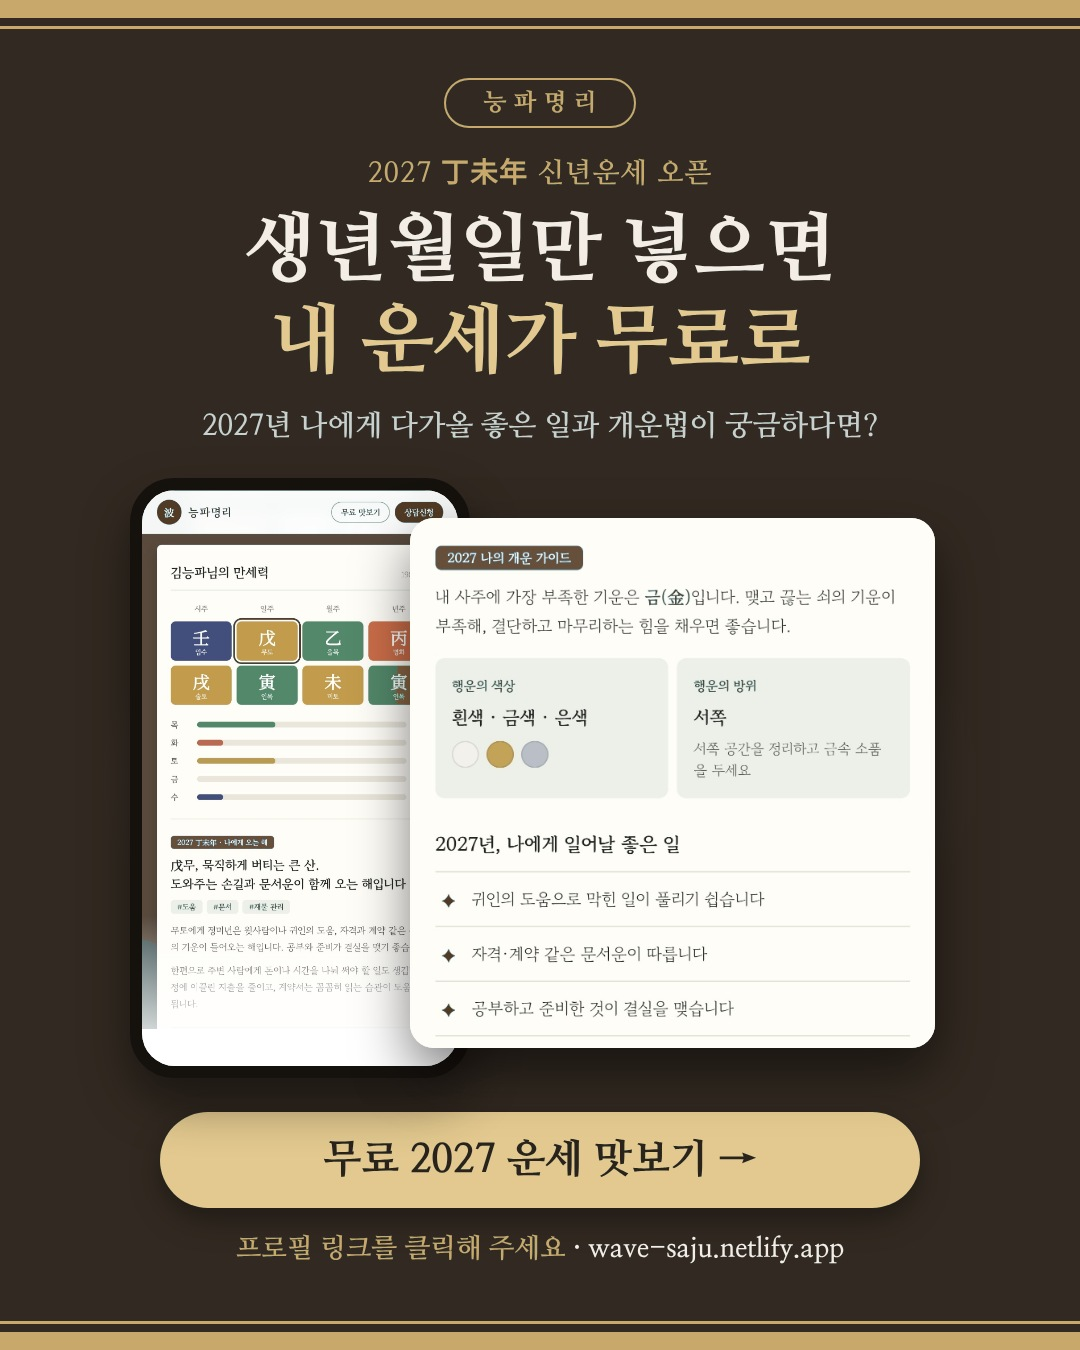
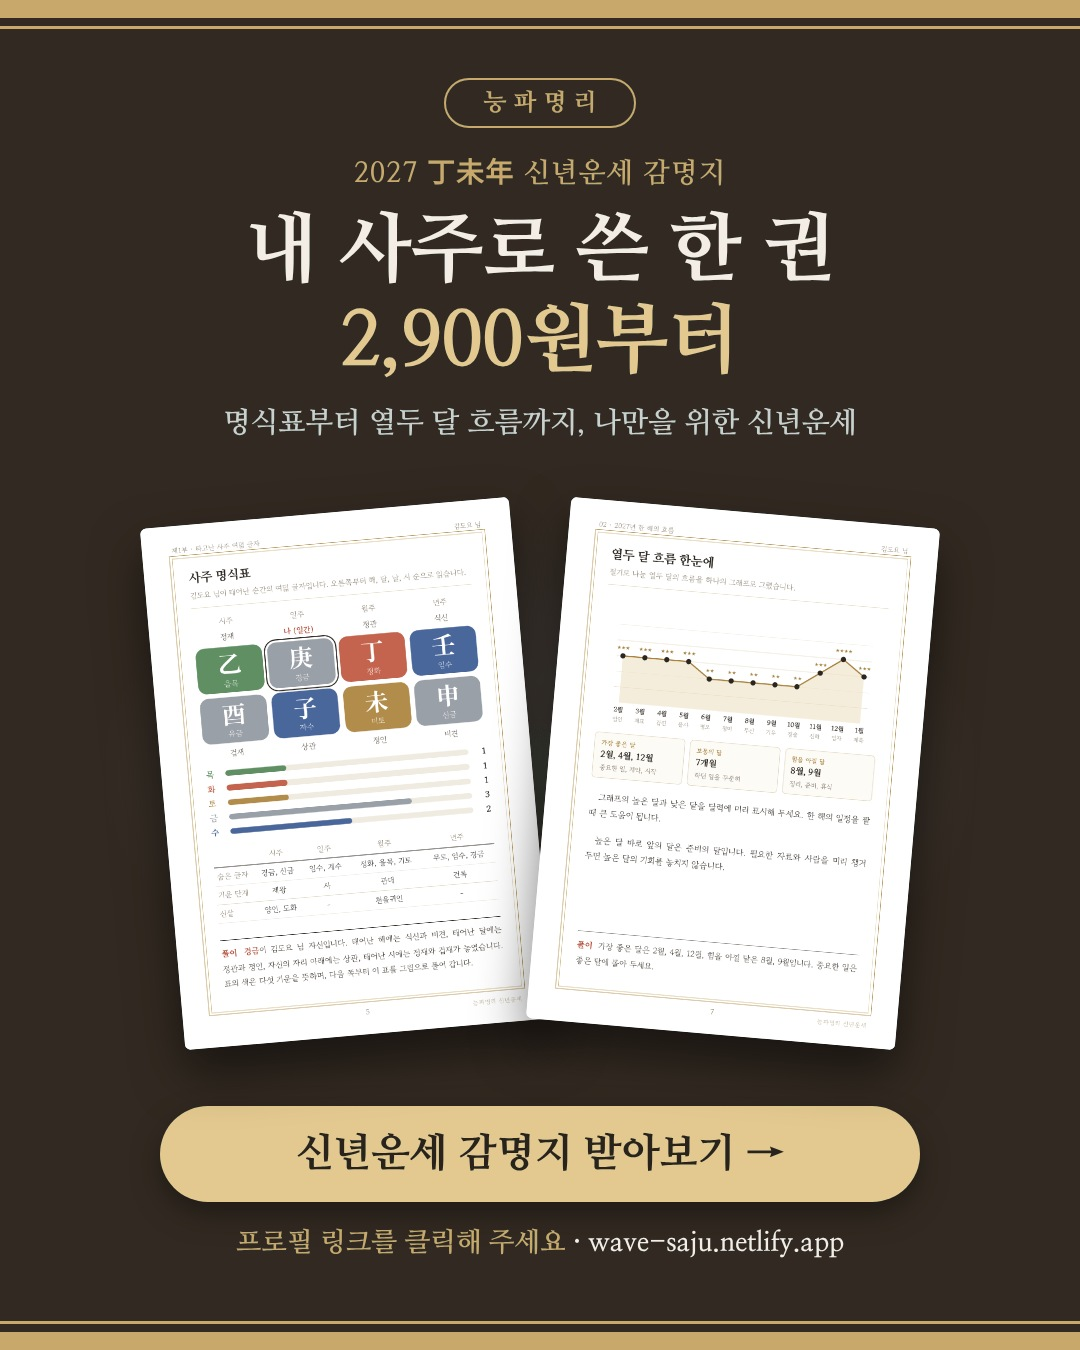
능파 마지막 장 광고 3종 번갈아 사용 + 포인트 컬러 배경
Claude-Session: https://claude.ai/code/session_01HTr4GQJeCEmHqeqCbafGJU

diff --git a/neungpa-extra/_ads/recolor.py b/neungpa-extra/_ads/recolor.py
@@ -1,0 +1,25 @@
+import sys,colorsys,numpy as np
+from PIL import Image
+SRC='/mnt/user-data/uploads/c803a4ca-image.png'
+def point_color(p1):
+    im=Image.open(p1).convert('RGB');best=None
+    for y in range(16,40):
+        for x in (300,540,780):
+            r,g,b=im.getpixel((x,y));h,s,v=colorsys.rgb_to_hsv(r/255,g/255,b/255)
+            if best is None or s*v>best[0]: best=(s*v,(r,g,b))
+    return best[1]
+def recolor(rgb,out,src=SRC):
+    th,ts,tv=colorsys.rgb_to_hsv(*[c/255 for c in rgb])
+    im=Image.open(src).convert('RGB');a=np.asarray(im).astype(float)/255
+    hsv=np.asarray(im.convert('HSV')).astype(float)/255
+    H,S,V=hsv[...,0],hsv[...,1],hsv[...,2]
+    m=(V<0.45)&(H>100/360)&(H<210/360)
+    S2=np.clip(S*(max(ts,0.35)*0.95/0.26),0,1)
+    H2=np.full_like(H,th)
+    out_hsv=np.stack([np.where(m,H2,H),np.where(m,S2,S),V],-1)
+    res=Image.fromarray((out_hsv*255).astype('uint8'),'HSV').convert('RGB')
+    a2=np.asarray(res).copy();orig=np.asarray(im)
+    a2[~m]=orig[~m]
+    Image.fromarray(a2).save(out,quality=93)
+if __name__=='__main__':
+    recolor(point_color(sys.argv[1]),sys.argv[2])
